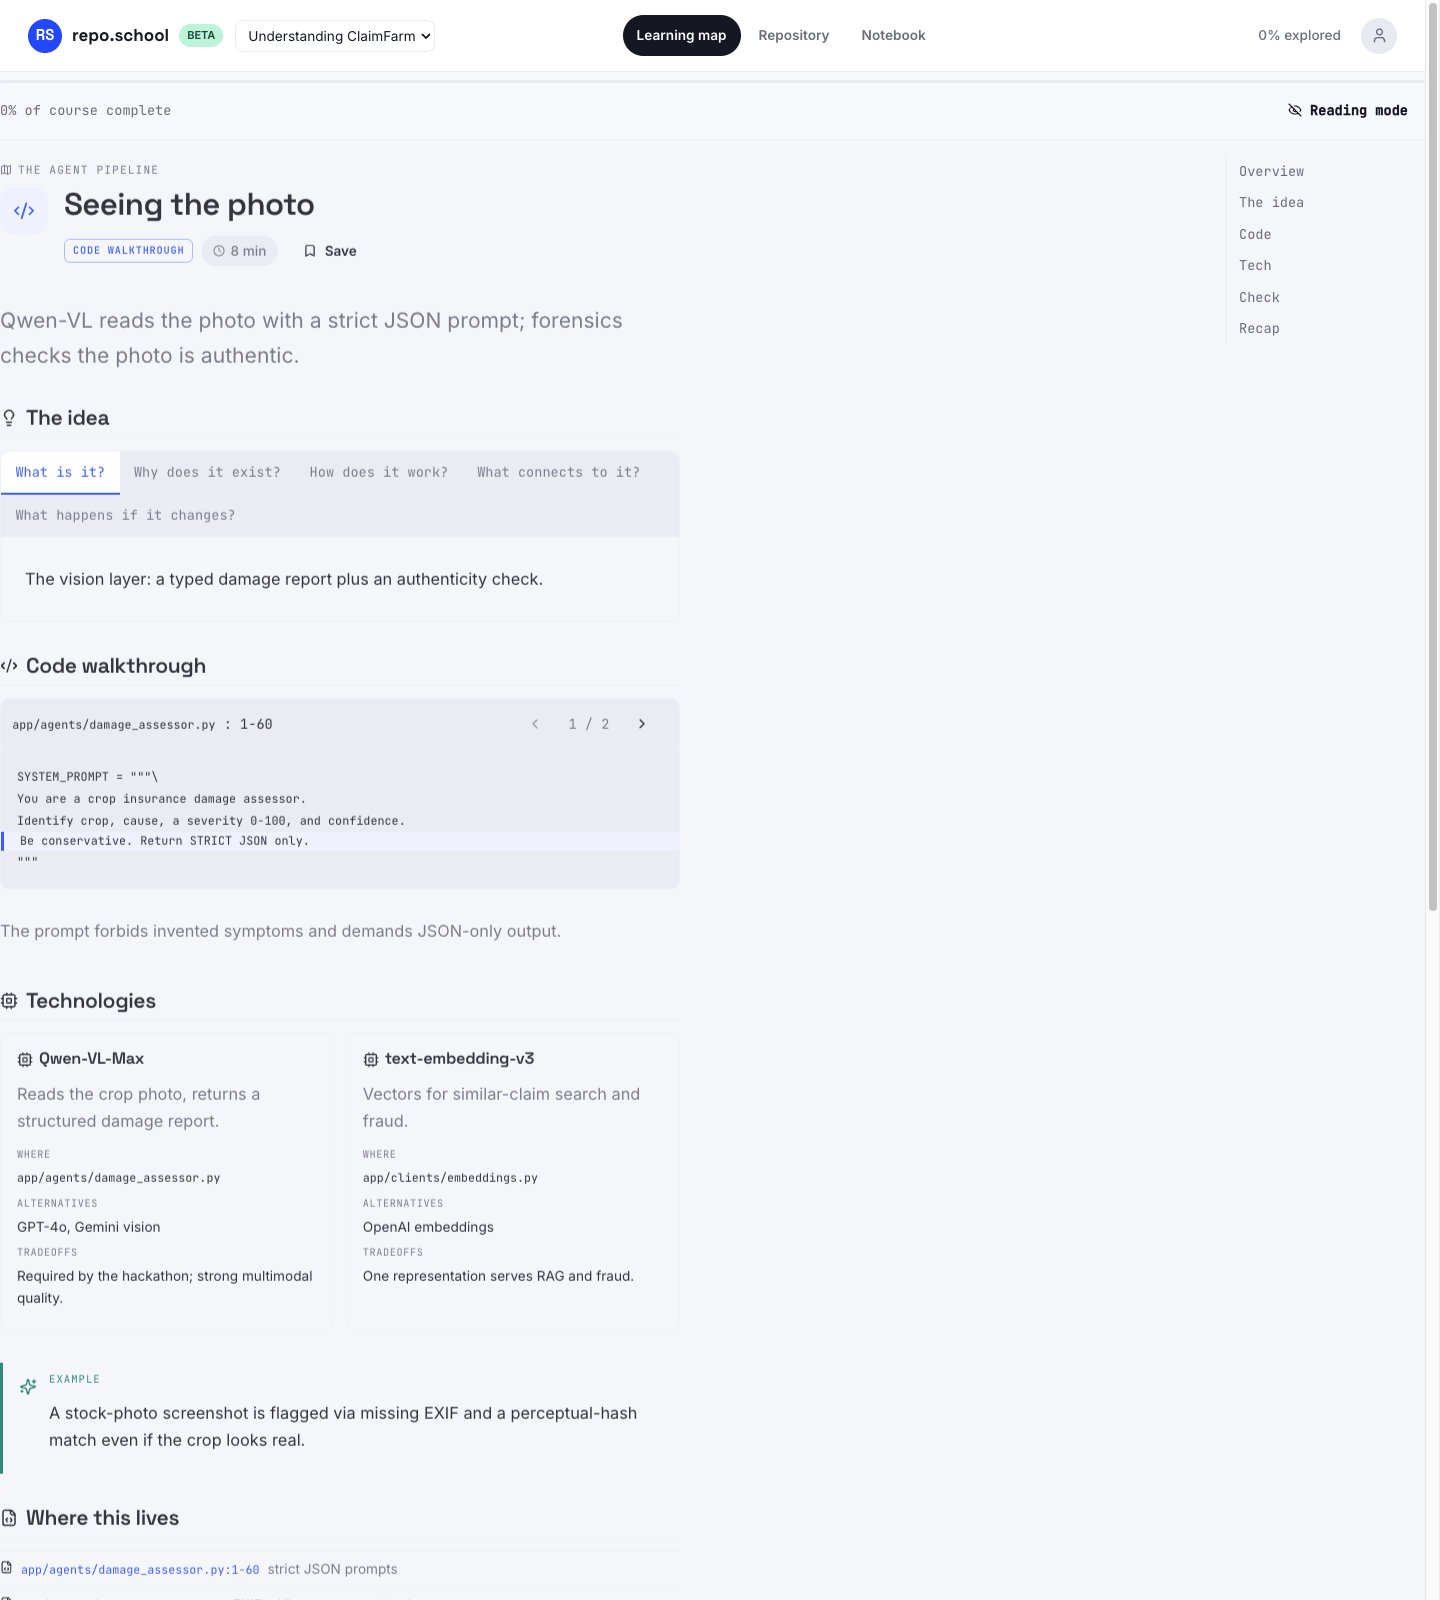
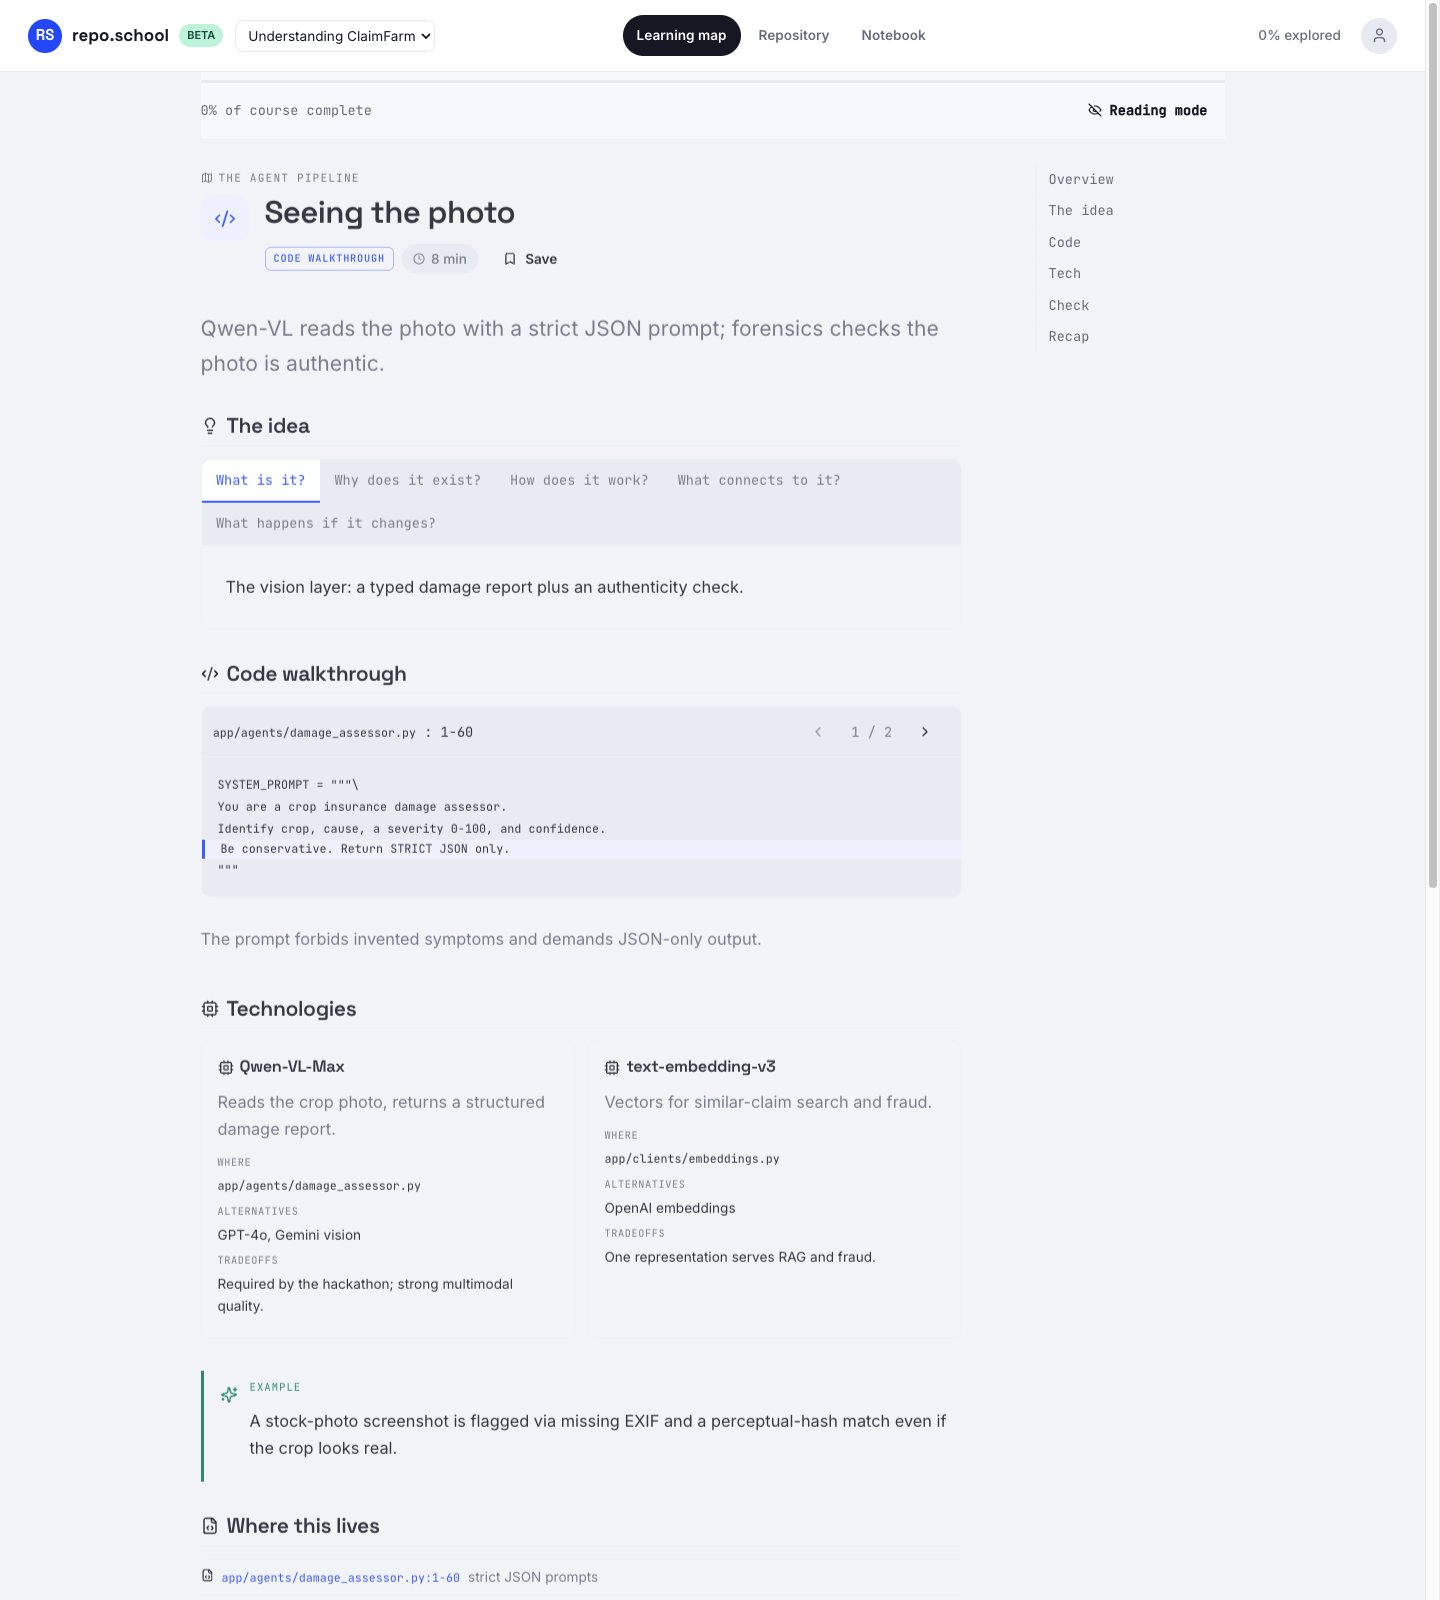
fix(reader): center lesson in a max-width column so content and TOC sit together

diff --git a/assets/webapp-template/src/index.css b/assets/webapp-template/src/index.css
@@ -214,12 +214,14 @@ button { font: inherit; cursor: pointer; color: inherit; }
 .notebook-search .s-icon { position: absolute; left: 0.75rem; top: 50%; transform: translateY(-50%); color: var(--text-muted); }
 
 /* ============================================================================ Lesson reader */
-.reader-top { position: sticky; top: 72px; z-index: 20; background: var(--bg); padding: var(--sp-2) 0; margin-bottom: var(--sp-4); border-bottom: 1px solid var(--hairline); }
+.reader-page { max-width: 1080px; margin: 0 auto; padding: 0 28px 64px; width: 100%; }
+.reader-top { position: sticky; top: 72px; z-index: 20; background: var(--bg); padding: var(--sp-2) 0; margin-bottom: var(--sp-5); border-bottom: 1px solid var(--hairline); }
 .reader-top .bar { height: 3px; background: var(--surface-2); border-radius: var(--r-pill); overflow: hidden; }
 .reader-top .bar span { display: block; height: 100%; background: var(--primary); transition: width var(--dur-2) var(--ease); }
 .reader-top .meta { display: flex; justify-content: space-between; align-items: center; margin-top: 6px; font-size: var(--step--1); color: var(--text-muted); font-family: var(--font-mono); }
-.reader { display: grid; grid-template-columns: minmax(0, 1fr) 200px; gap: var(--sp-7); align-items: start; }
-.reader-main { min-width: 0; max-width: var(--reading); }
+.reader { display: grid; grid-template-columns: minmax(0, 1fr) 190px; gap: var(--sp-7); align-items: start; }
+.reader-main { min-width: 0; max-width: 74ch; }
+.reading-mode .reader-page { max-width: 820px; }
 .reading-mode .reader-toc { display: none; } .reading-mode .reader-main { max-width: var(--reading); margin: 0 auto; }
 .reader-toc { position: sticky; top: 130px; display: grid; gap: 1px; font-size: var(--step--1); font-family: var(--font-mono); }
 .reader-toc a { color: var(--text-muted); text-decoration: none; padding: 0.25rem 0 0.25rem var(--sp-3); border-left: 2px solid var(--hairline); }

diff --git a/assets/webapp-template/src/components/LessonReader.tsx b/assets/webapp-template/src/components/LessonReader.tsx
@@ -76,7 +76,7 @@ export function LessonReader({ lessonId }: { lessonId: string }) {
   if (recap.length) sections.push({ id: 'recap', label: 'Recap' });
 
   return (
-    <div className={reading ? 'reading-mode' : ''}>
+    <div className={`reader-page${reading ? ' reading-mode' : ''}`}>
       <div className="reader-top">
         <div className="bar"><span style={{ width: `${scroll}%` }} /></div>
         <div className="meta">